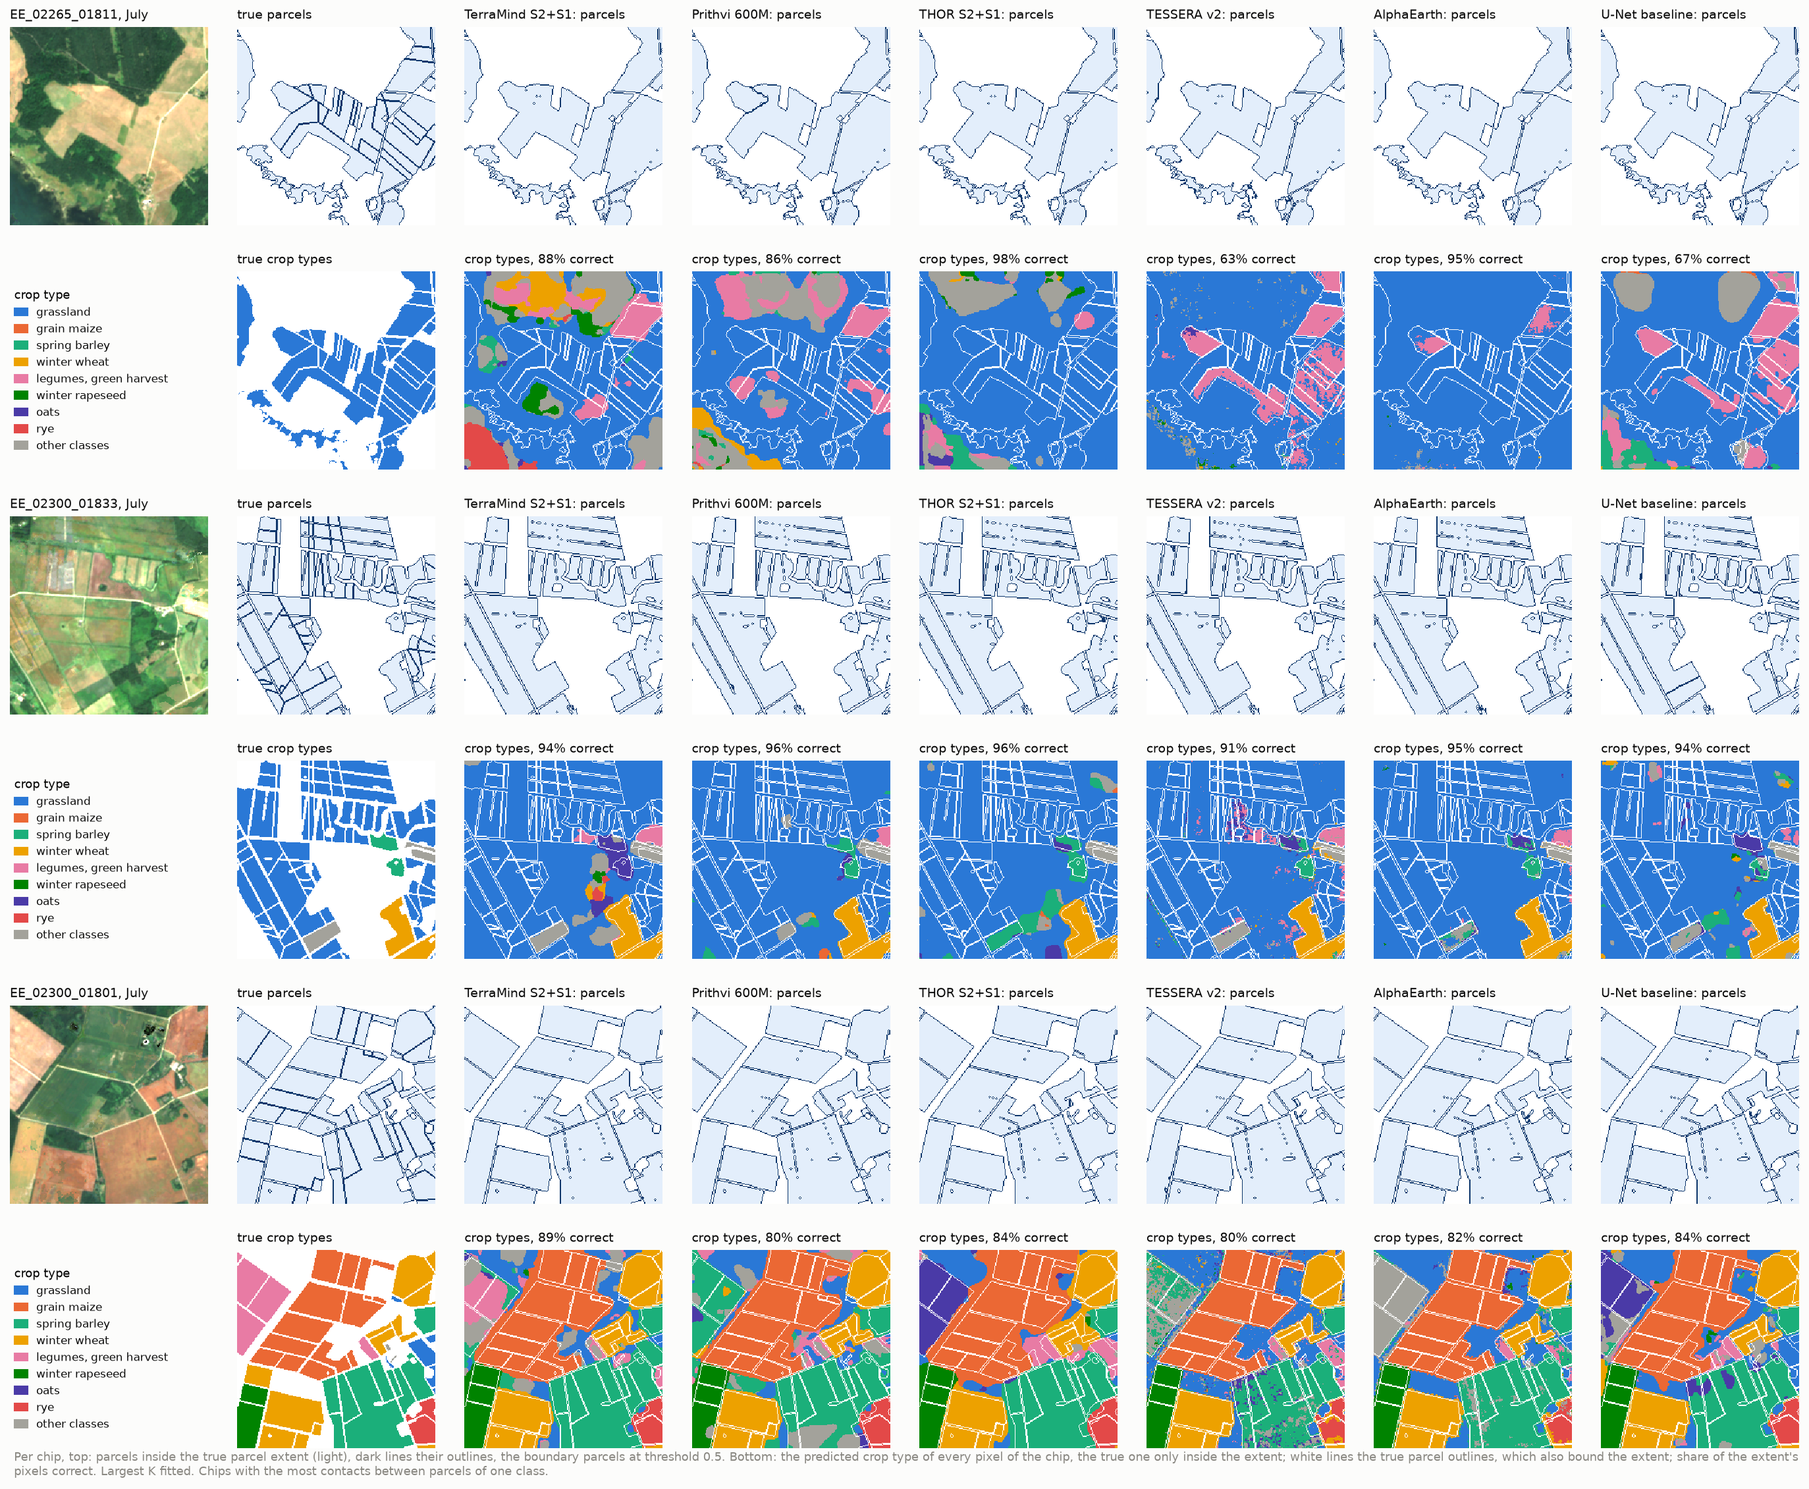
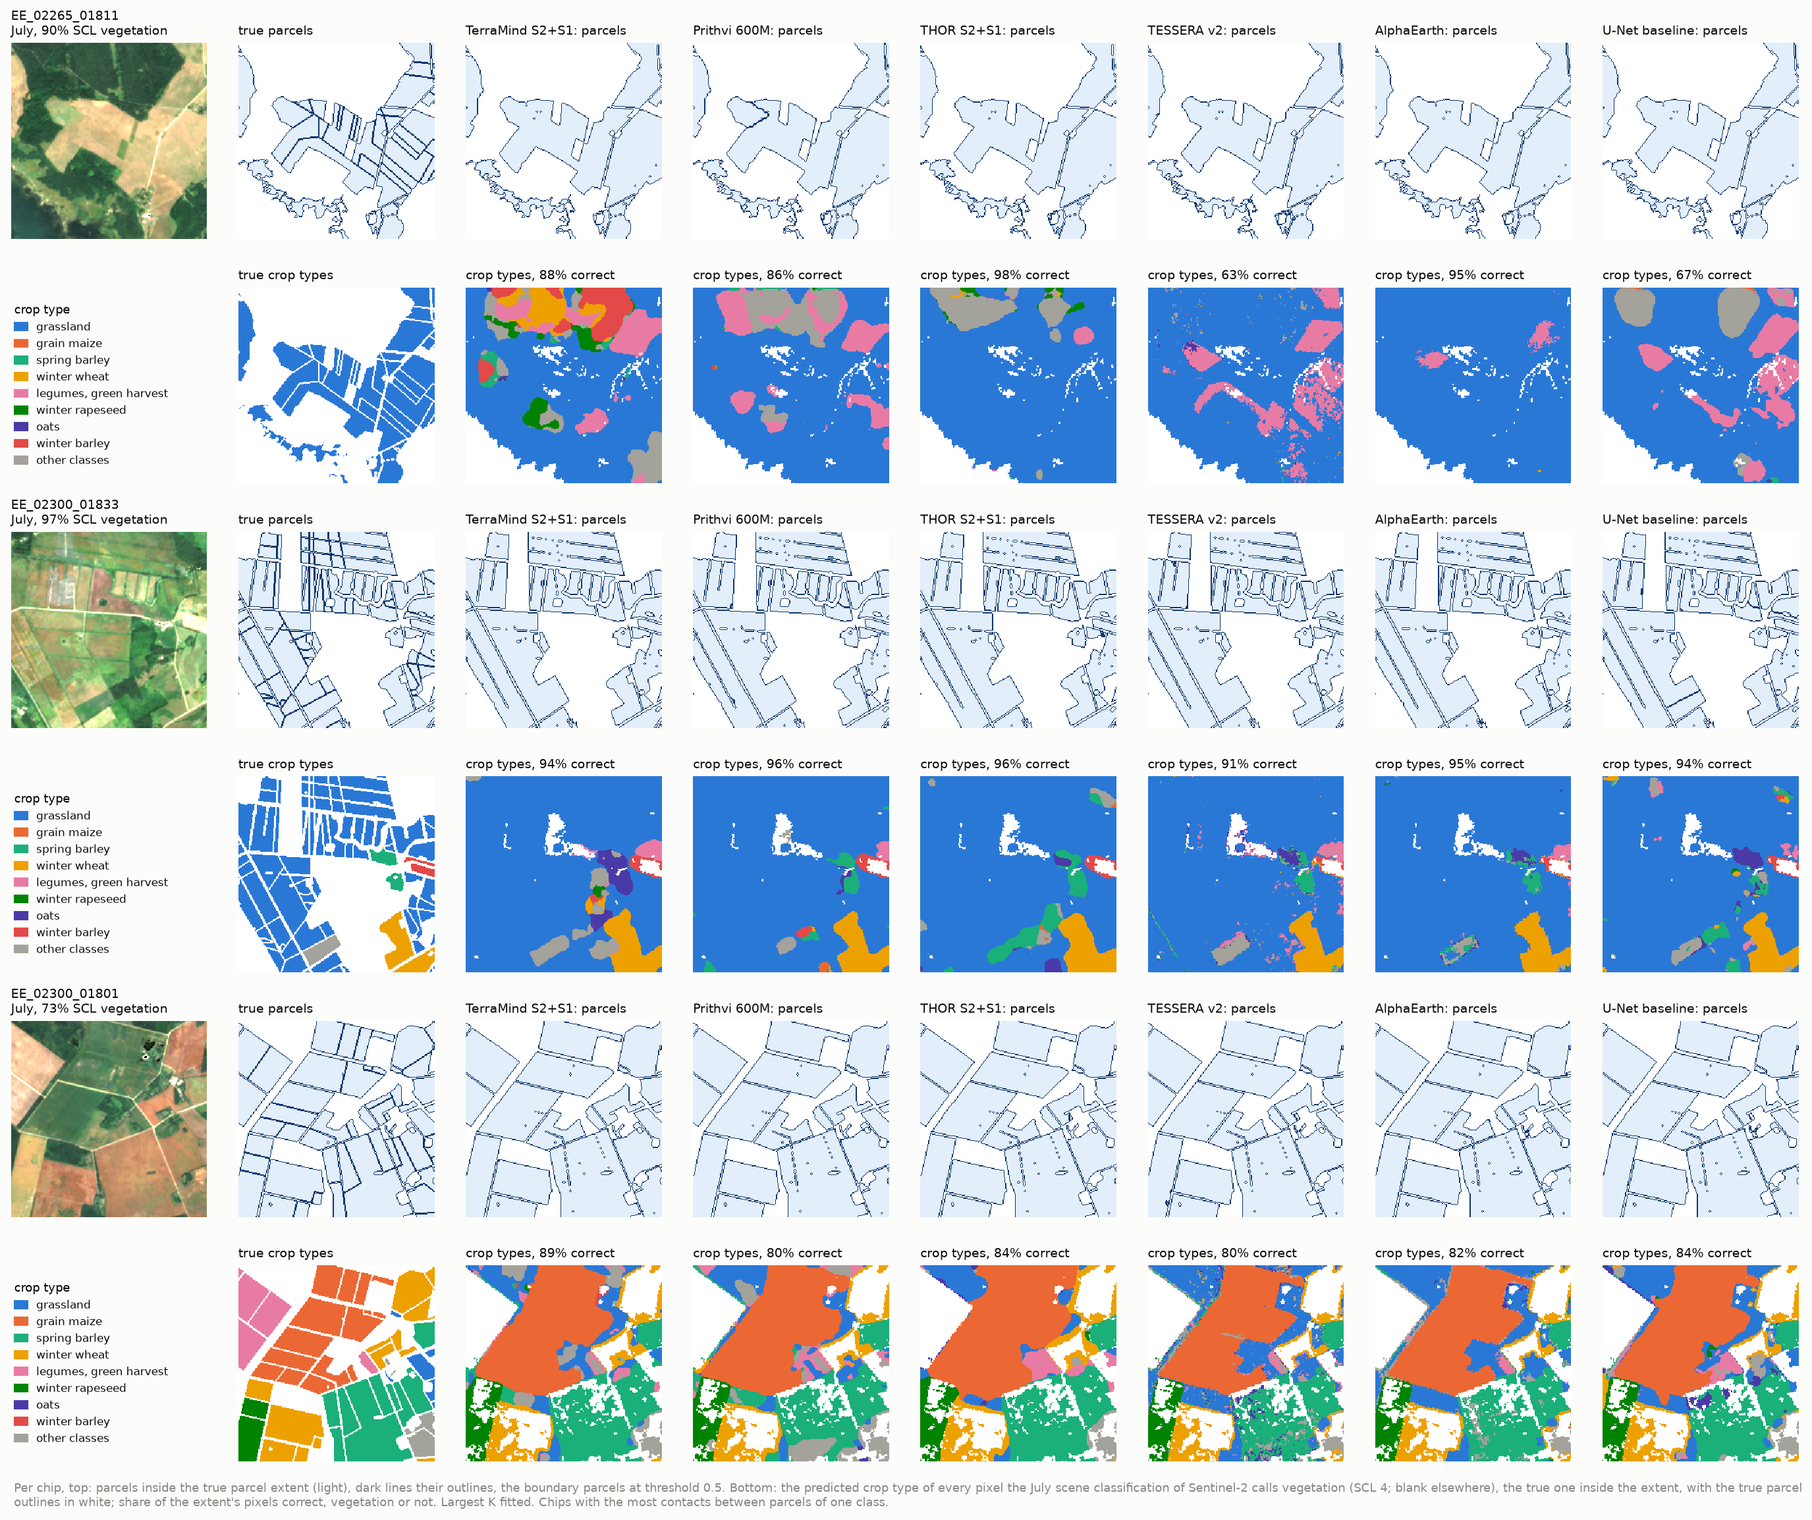
Parcel delineation: predicted crop types on July SCL vegetation, without the true outlines
fetch_scl.py reads the July 2021 Sentinel-2 scene classification of the example chips; the predicted crop-type maps
of examples.png show only the pixels it calls vegetation (SCL 4), and the true parcel outlines stay on the true
crop types only.

Changed region(s): [[0.0, 0.0, 1.0, 0.9907]]

diff --git a/experiments/2026-10-18_parcel_delineation/report.py b/experiments/2026-10-18_parcel_delineation/report.py
@@ -15,7 +15,8 @@ the main workflow's ``results/kshot/<chip set>/``, whose ``oracle`` and ``semant
 * ``tau.png``: class-agnostic PQ of the boundary parcels against the threshold on the boundary probability;
 * ``validation_curves.png``: validation crop-type and boundary loss per epoch, with the checkpoint epochs;
 * ``examples.png``: test chips: a July composite, the true parcels and crop types, and every arm's boundary parcels
-  and predicted crop types (over the whole chip) at the largest K;
+  and predicted crop types at the largest K, the latter where the July SCL calls vegetation when ``fetch_scl.py`` has
+  run (over the whole chip otherwise);
 * when ``diagnose.py`` has run: ``where_found.png``, the share of the true parcels found by the extent, the
   crop-type map and the boundary head, split by whether a parcel touches none, only other classes, or its own
   class; ``boundary_pixels.png``, the share of the target's boundary pixels the head marks, by what lies across
@@ -552,14 +553,18 @@ SHORT = {"pasture_meadow_grassland_grass": "grassland", "winter_common_soft_whea
          "grain_maize_corn_popcorn": "grain maize", "legumes_dried_pulses_protein_crops": "dried pulses",
          "alfalfa_lucerne": "alfalfa", "orchards_fruits": "orchards", "fresh_vegetables": "vegetables"}
 OTHER_CLASS = "#a3a29b"
+#: The class of the Sentinel-2 scene classification (SCL) the predicted crop types are shown on.
+SCL_VEGETATION = 4
 
 
-def _show_classes(ax, cls: np.ndarray, where: np.ndarray, outline: np.ndarray, colours: dict, title: str) -> None:
-    """A crop-type map over ``where``, one colour per class, with the true parcel outlines in white."""
+def _show_classes(ax, cls: np.ndarray, where: np.ndarray, colours: dict, title: str,
+                  outline: np.ndarray | None = None) -> None:
+    """A crop-type map over ``where``, one colour per class, with ``outline`` in white when given."""
     img = np.ones(cls.shape + (3,))
     for k in np.unique(cls[where]):
         img[where & (cls == k)] = matplotlib.colors.to_rgb(colours.get(int(k), OTHER_CLASS))
-    img[outline] = 1.0
+    if outline is not None:
+        img[outline] = 1.0
     ax.imshow(img, interpolation="nearest")
     ax.set_title(title, fontsize=9)
     ax.axis("off")
@@ -585,33 +590,36 @@ def fig_examples(out: Path, chips: str, styles: dict, path: Path) -> None:
     manifest = json.loads((REPO / "data/eurocrops_chips" / chips / "manifest.json").read_text())
     bands = manifest["imagery"]["band_names"]
 
-    # Per chip: the extent, the true pieces, the true classes and every arm's predicted classes and parcels.
+    # Per chip: the extent, the pixels the July SCL calls vegetation (``fetch_scl.py``; the whole chip without it),
+    # the true pieces, the true classes and every arm's predicted classes and parcels.
+    scl = dict(np.load(out / "scl_july.npz")) if (out / "scl_july.npz").exists() else {}
     shown = []
     for cid in chosen:
         parcels = read_parcels(chips_dir, cid)
         first = next(iter(cells.values()))
         mask = first["mask"][ids.index(cid)]
         extent = (mask >= 0) & (parcels > 0)
+        veg = scl[cid] == SCL_VEGETATION if cid in scl else np.ones(extent.shape, bool)
         arms = {}
         for arm, d in cells.items():
             j = [str(c) for c in d["ids"]].index(cid)
             arms[arm] = (d["pred"][j], panoptic.from_boundary(extent, d["boundary"][j].astype(np.float32) / 255.0,
                                                               panoptic.TAU))
-        shown.append((cid, extent, panoptic.pieces(np.where(extent, parcels, 0)), mask, arms))
+        shown.append((cid, extent, veg, panoptic.pieces(np.where(extent, parcels, 0)), mask, arms))
     # One colour per class across the figure, in slot order by the pixels a class covers in all its crop-type maps
-    # (the true classes inside the extent, the predicted ones over the whole chip); the classes past the eight slots
+    # (the true classes inside the extent, the predicted ones where they are shown); the classes past the eight slots
     # share one grey.
     area = np.zeros(len(names), np.int64)
-    for _, extent, _, mask, arms in shown:
+    for _, extent, veg, _, mask, arms in shown:
         area += np.bincount(mask[extent].astype(np.int64), minlength=len(names))
         for pred, _ in arms.values():
-            area += np.bincount(pred.ravel().astype(np.int64), minlength=len(names))
+            area += np.bincount(pred[veg].astype(np.int64), minlength=len(names))
     ranked = [int(k) for k in np.argsort(-area, kind="stable") if area[k] > 0]
     colours = dict(zip(ranked, SLOTS))
 
     ncol = 2 + len(cells)
     fig, axes = plt.subplots(2 * len(chosen), ncol, figsize=(2.3 * ncol, 2.5 * 2 * len(chosen)), squeeze=False)
-    for r, (cid, extent, true, mask, arms) in enumerate(shown):
+    for r, (cid, extent, veg, true, mask, arms) in enumerate(shown):
         top, bottom = axes[2 * r], axes[2 * r + 1]
         with rasterio.open(chips_dir / f"{cid}_merged.tif") as s:
             # Band index = month index x bands per month + band index (the manifest's layout).
@@ -620,20 +628,19 @@ def fig_examples(out: Path, chips: str, styles: dict, path: Path) -> None:
             rgb = rgb.astype(np.float32)
         rgb = np.clip(rgb / np.nanpercentile(rgb, 98), 0, 1)
         top[0].imshow(np.nan_to_num(rgb), interpolation="nearest")
-        top[0].set_title(f"{cid}, July", fontsize=9)
+        top[0].set_title(f"{cid}\nJuly" + (f", {veg.mean():.0%} SCL vegetation" if cid in scl else ""), fontsize=9)
         top[0].axis("off")
         outline = _outline(true)
-        chip = np.ones(extent.shape, bool)
         _show_parcels(top[1], true, extent, "true parcels")
-        _show_classes(bottom[1], mask, extent, outline, colours, "true crop types")
+        _show_classes(bottom[1], mask, extent, colours, "true crop types", outline)
         for t_ax, b_ax, (arm, (pred, seg)) in zip(top[2:], bottom[2:], arms.items()):
             _show_parcels(t_ax, seg, extent, f"{styles[arm][0]}: parcels")
             correct = float((pred[extent] == mask[extent]).mean())
-            _show_classes(b_ax, pred, chip, outline, colours, f"crop types, {correct:.0%} correct")
+            _show_classes(b_ax, pred, veg, colours, f"crop types, {correct:.0%} correct")
         # The chip's classes, in the figure's colour order, as the legend of its crop-type row.
         present = {int(k) for k in np.unique(mask[extent])}
         for pred, _ in arms.values():
-            present |= {int(k) for k in np.unique(pred)}
+            present |= {int(k) for k in np.unique(pred[veg])}
         handles = [matplotlib.patches.Patch(color=colours[k], label=SHORT.get(names[k], names[k].replace("_", " ")))
                    for k in ranked if k in present and k in colours]
         if present - set(colours):
@@ -642,10 +649,10 @@ def fig_examples(out: Path, chips: str, styles: dict, path: Path) -> None:
         bottom[0].legend(handles=handles, loc="center left", fontsize=8, handlelength=1.2, borderaxespad=0,
                          title="crop type", title_fontsize=8.5, alignment="left")
     fig.text(0.01, 0.0, "Per chip, top: parcels inside the true parcel extent (light), dark lines their outlines, "
-             "the boundary parcels at threshold 0.5. Bottom: the predicted crop type of every pixel of the chip, the true "
-             "one only inside the extent; white lines the true parcel outlines, which also bound the extent; share of "
-             "the extent's pixels correct. Largest K fitted. Chips with the most contacts between parcels of one "
-             "class.", color=MUTED, fontsize=8.5, wrap=True)
+             "the boundary parcels at threshold 0.5. Bottom: the predicted crop type of every pixel the July "
+             "scene classification of Sentinel-2 calls vegetation (SCL 4; blank elsewhere), the true one inside the "
+             "extent, with the true parcel outlines in white; share of the extent's pixels correct, vegetation or not. Largest K fitted. Chips with the most contacts between parcels of one "
+             "class.", color=MUTED, fontsize=8.5, wrap=True, va="top")
     fig.tight_layout()
     fig.savefig(path, dpi=150, bbox_inches="tight")
     plt.close(fig)

diff --git a/experiments/2026-10-18_parcel_delineation/fetch_scl.py b/experiments/2026-10-18_parcel_delineation/fetch_scl.py
@@ -1,0 +1,94 @@
+"""The July scene classification (SCL) of the example chips, so ``report.py`` can show the predicted crop types
+only where Sentinel-2 saw vegetation.
+
+The chips keep no SCL: the compositor uses it to screen clouds and drops it. This reads every Sentinel-2 L2A
+acquisition of July 2021 over a chip from the Planetary Computer, as ``gfm4agri.chips.s2_monthly`` does, onto the
+chip grid (EPSG:3035, 10 m, nearest neighbour from 20 m). An acquisition sees a pixel clearly where its class is
+vegetation (4), not vegetated (5) or water (6), the classes the ``revised`` screening keeps; the pixel's July class is
+the most frequent of the three over those acquisitions, ties going to the lower class, and 0 where none sees it.
+
+Writes ``results/<name>/<set>/scl_july.npz``: per chip id, the July class (``<id>``) and the number of clear
+acquisitions (``<id>_n``); chips already there are skipped. Without ``--ids`` the chips are those of ``examples.png``:
+
+    poetry run python experiments/2026-10-18_parcel_delineation/fetch_scl.py --chips EE_2021_rev
+"""
+
+from __future__ import annotations
+
+import argparse
+import sys
+import warnings
+from pathlib import Path
+
+HERE = Path(__file__).resolve().parent
+REPO = next(p for p in HERE.parents if (p / "pyproject.toml").exists())
+sys.path[:0] = [str(HERE), str(REPO / "src")]
+
+import numpy as np  # noqa: E402
+
+CLEAR = (4, 5, 6)
+YEAR, MONTH = 2021, 7
+
+
+def july_scl(bounds_3035: tuple[float, float, float, float]) -> tuple[np.ndarray, np.ndarray]:
+    """The July class and the number of clear acquisitions per pixel of one chip window."""
+    import stackstac
+    from pyproj import Transformer
+
+    from gfm4agri.chips.s2_monthly import _resampling, _search
+
+    xmin, ymin, xmax, ymax = bounds_3035
+    tr = Transformer.from_crs("EPSG:3035", "EPSG:4326", always_xy=True)
+    lon, lat = tr.transform([xmin, xmax, xmin, xmax], [ymin, ymin, ymax, ymax])
+    items = [it for it in _search((min(lon), min(lat), max(lon), max(lat)), YEAR, 80.0)
+             if it.datetime.month == MONTH]
+    if not items:
+        raise RuntimeError(f"no Sentinel-2 L2A items over {bounds_3035} in {YEAR}-{MONTH:02d}")
+    with warnings.catch_warnings():
+        warnings.simplefilter("ignore")
+        scl = stackstac.stack(items, assets=["SCL"], resampling=_resampling("nearest"), epsg=3035, resolution=10,
+                              bounds=bounds_3035, dtype="float32", fill_value=np.float32(np.nan), rescale=False,
+                              chunksize=2048).values[:, 0]
+    counts = np.stack([(scl == k).sum(0) for k in CLEAR])
+    n = counts.sum(0)
+    cls = np.where(n > 0, np.asarray(CLEAR)[counts.argmax(0)], 0).astype(np.uint8)
+    return cls, n.astype(np.int16)
+
+
+def main() -> None:
+    ap = argparse.ArgumentParser(description=__doc__.split("\n\n")[0])
+    ap.add_argument("--chips", required=True, help="the chip set's name, e.g. EE_2021_rev")
+    ap.add_argument("--ids", nargs="*", help="chip ids; by default the chips of examples.png")
+    ap.add_argument("--name", default=None, help="the results' experiment name, by default experiment.yaml's")
+    args = ap.parse_args()
+
+    import rasterio
+
+    from gfm4agri.pipeline.config import load_experiment
+
+    name = args.name or load_experiment(HERE / "experiment.yaml")["name"]
+    results = REPO / "results" / name / args.chips
+    chips_dir = REPO / "data/eurocrops_chips" / args.chips / "chips"
+    ids = args.ids
+    if not ids:
+        import report
+
+        first = next(iter(sorted(results.glob("*/P*_draw0_seed0/predictions_test.npz"))))
+        ids = report.pick_chips(chips_dir, [str(c) for c in np.load(first)["ids"]])
+    path = results / "scl_july.npz"
+    out = dict(np.load(path)) if path.exists() else {}
+    for cid in ids:
+        if cid in out:
+            continue
+        with rasterio.open(chips_dir / f"{cid}_merged.tif") as s:
+            bounds = tuple(s.bounds)
+        cls, n = july_scl(bounds)
+        out[cid], out[f"{cid}_n"] = cls, n
+        shares = {k: f"{np.mean(cls == k):.0%}" for k in (0, *CLEAR)}
+        print(f"{cid}: July class shares {shares}, clear acquisitions {n.min()} to {n.max()}", flush=True)
+        np.savez_compressed(path, **out)
+    print(f"{len([k for k in out if not k.endswith('_n')])} chips in {path}")
+
+
+if __name__ == "__main__":
+    main()

diff --git a/experiments/2026-10-18_parcel_delineation/REPORT.md b/experiments/2026-10-18_parcel_delineation/REPORT.md
@@ -203,7 +203,7 @@ holds. THOR's boundary loss stays the highest of all (0.35 to 0.42).
 
 ### Examples
 
-![Test chips: July composite, true parcels and crop types, and every arm's boundary parcels and predicted crop types over the whole chip at K = 100 %](figures/examples.png)
+![Test chips: July composite, true parcels and crop types, and every arm's boundary parcels and predicted crop types where the July SCL calls vegetation, at K = 100 %](figures/examples.png)
 
 The three test chips with the most contacts between parcels of one class; for each, the parcels in the upper row
 and the crop types in the lower row. The true parcels (second column) are strips and blocks separated by thin
@@ -211,23 +211,30 @@ internal lines. Every arm's boundary parcels keep the outer outline of the exten
 few of the internal lines; what they add are small holes and slivers inside the fields.
 
 The crop-type rows show why the map alone cannot stand in for the head. Neighbouring parcels of one class form one
-block of colour, as the grassland strips of the first two chips do, and in the figure only the white lines of the
-true outlines keep them apart; the parcels drawn from the map merge them. The errors take a different form in each
+block of colour, as the grassland strips of the first two chips do, and only the white outlines in the true
+crop types keep them apart; the parcels drawn from the map merge them. The errors take a different form in each
 group. The token-grid models confuse classes in rounded patches a few tokens wide that ignore the parcel outlines,
 as TerraMind and Prithvi do on the first chip, where grassland becomes legumes harvested green. TESSERA's errors
 are scattered pixels inside a parcel, such as the spring wheat (13 %) and oats (9 %) in the spring barley block of
 the third chip; when parcels are drawn from the map, each such class change cuts a sliver. Elsewhere a whole parcel
-takes one wrong class: the three legumes parcels at the top left of the third chip are oats for THOR (88 to 99 %),
+takes one wrong class: the three legumes parcels at the top left of the third chip, blank in the predicted maps
+because the July SCL calls them bare, are oats for THOR (88 to 99 %),
 peas for AlphaEarth (100 %) and oats or spring wheat for the U-Net, while TerraMind alone gets part of each right (28 to
 76 %). These chips were chosen for their same-class contacts and are mostly grassland, so their pixel
 accuracy (63 to 98 %) does not estimate that of the test set.
 
-The predicted crop types cover the whole chip, the true ones only the extent. Outside the extent, which holds 74 % of
-the test pixels, every arm still names a crop, since the scheme has no background class. TESSERA and AlphaEarth call
-86 % of those pixels grassland and the U-Net 65 %, while the token-grid models call only 39 to 45 % grassland and
-spread other crops over forest and settlements, as TerraMind's winter wheat, rapeseed and rye over the forest of the
-first chip show. None of this enters a score, since every metric is computed inside the extent; it matters for a map
-of a whole region, which would need the cropland mask of stage 1 first.
+The predicted crop types are shown wherever the July scene classification of Sentinel-2 (SCL) calls a pixel
+vegetation (class 4), inside the extent or not, and the true ones only inside the extent. `fetch_scl.py` reads the SCL
+for these chips: a pixel takes its most frequent class among the July acquisitions that see it as vegetation, bare
+soil or water. The mask removes water, roads and farmyards but keeps forest, and it removes much of the cropland as
+well: in the third chip a third of the labelled pixels are bare in July, among them 89 % of the legumes harvested
+green, 67 % of the winter wheat and 65 % of the grassland, which are mown or ripening. Outside the extent, which holds
+74 % of the test pixels, every arm still names a crop, since the scheme has no background class. Over the whole test
+set TESSERA and AlphaEarth call 86 % of those pixels grassland and the U-Net 65 %, while the token-grid models call only
+39 to 45 % grassland and spread other crops over forest and settlements; on the vegetation outside the extent of the
+first chip, mostly forest, TerraMind names winter barley (13 %), winter wheat (10 %) and winter rapeseed (7 %). None of
+this enters a score, since every metric is computed inside the extent over all its pixels, whatever their SCL class;
+it matters for a map of a whole region, which would need the cropland mask of stage 1 first.
 
 ## Analysis
 
